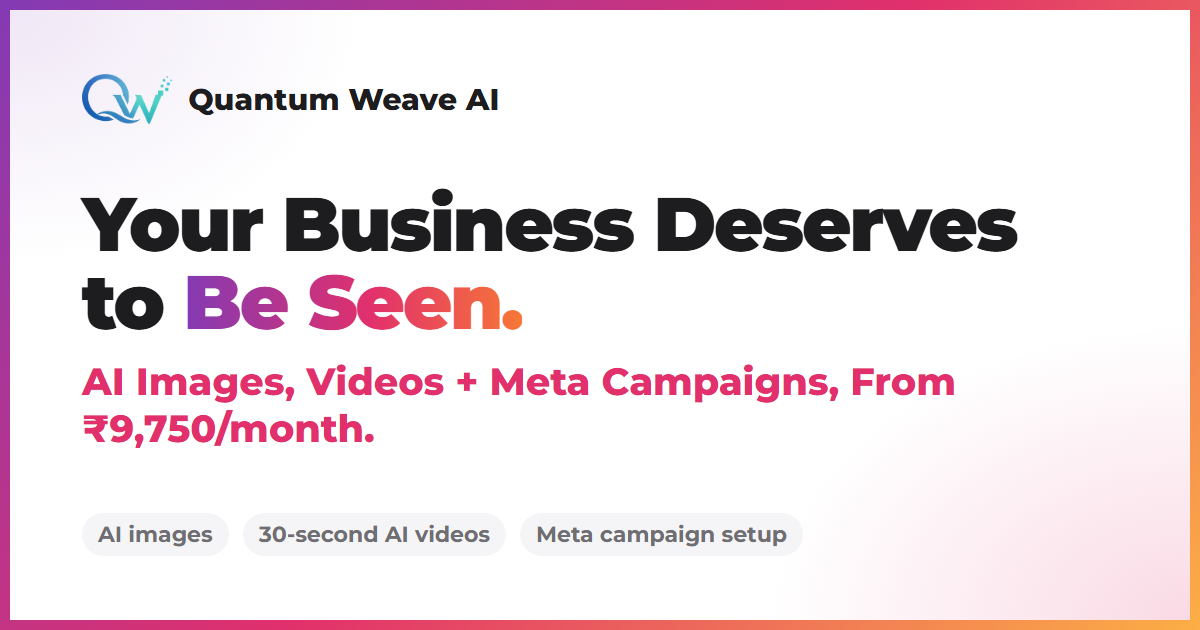
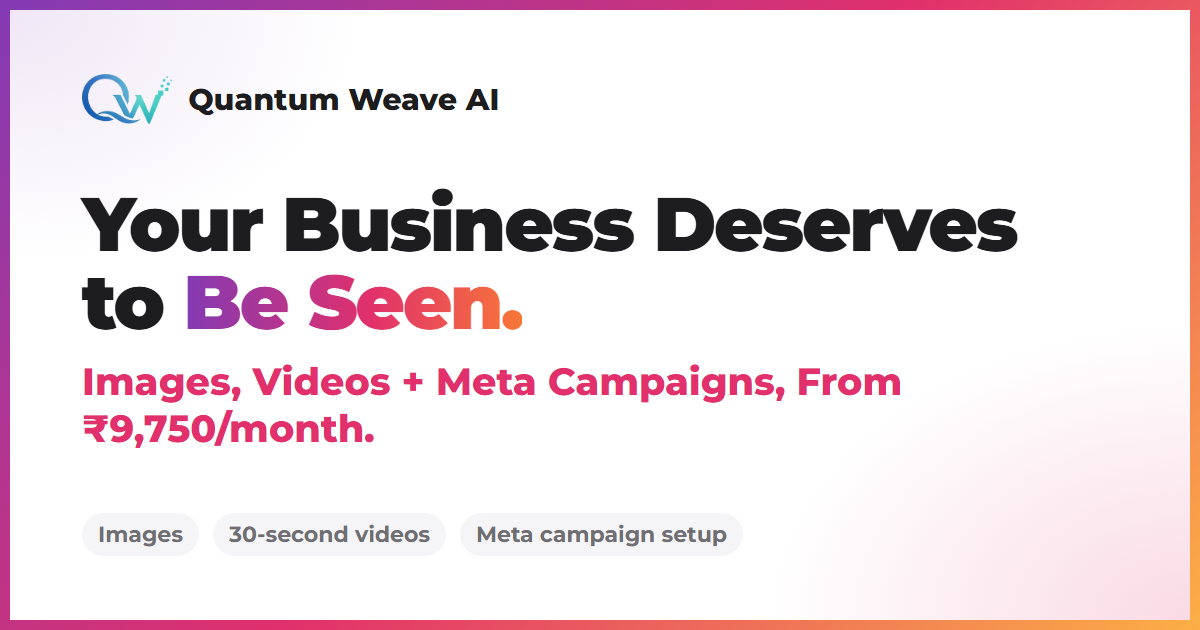
Meta Growth: show AI as a small bracket, not in the labels
"15 images (AI, 4:5)", "Videos (AI)" and so on: cards, comparison table,
full details, What You Get tiles and section leads. The hero line and share
image say "Images, Videos + Meta Campaigns". Sentences, the meta description
and structured data keep "AI" at normal size.

Changed region(s): [[0.0617, 0.573, 0.8017, 0.6333], [0.0617, 0.8143, 0.6783, 0.8746], [0.2775, 0.6635, 0.3083, 0.6937]]

diff --git a/public/meta-growth/index.html b/public/meta-growth/index.html
@@ -5,7 +5,7 @@
 <meta name="viewport" content="width=device-width, initial-scale=1.0">
 <title>AI-Powered Meta Ads for Businesses | Quantum Weave AI</title>
 <meta name="description" content="AI-generated images, 30-second AI videos and Facebook &amp; Instagram campaign setup. Packages from ₹9,750/month. Ad budget paid directly to Meta.">
-<meta property="og:title" content="AI Images, Videos + Meta Campaign Setup | Quantum Weave AI">
+<meta property="og:title" content="Images, Videos + Meta Campaign Setup | Quantum Weave AI">
 <meta property="og:description" content="AI-generated images and 30-second videos, with Facebook and Instagram campaign setup. Packages from ₹9,750/month.">
 <meta property="og:image" content="https://brandmintai.io/meta-growth/assets/brand/og-image.png">
 <meta property="og:image:width" content="1200">
@@ -307,6 +307,9 @@ Template metrics (3.5x reach, 12.4K followers, +285%) are not shown: they would 
   .feat .i{width:18px;height:18px;margin-top:1px;color:var(--wa);stroke-width:2.6}
   .incl{margin:16px 0 0;padding-top:12px;border-top:1px dashed var(--line);font-size:12.5px;line-height:1.5;color:var(--ink-2)}
   .incl b{color:var(--ink);font-weight:600}
+  /* "AI" is mentioned, but small and quiet, after the item */
+  .ai{font-size:.78em;font-style:normal;font-weight:500;color:var(--ink-2);letter-spacing:0;white-space:nowrap}
+  .incl .ai,.fine .ai{font-size:.92em}
   .outcome{margin:18px 0 0;padding:12px 14px;border-radius:12px;background:var(--soft);font-size:14px;font-weight:600;line-height:1.45;color:var(--ink)}
   .featured .outcome{background:#fff4f8}
   .budget b{display:block;margin-bottom:2px;font-size:11px;letter-spacing:.08em;text-transform:uppercase;color:var(--ink-2)}
@@ -569,7 +572,7 @@ Template metrics (3.5x reach, 12.4K followers, +285%) are not shown: they would 
           <div class="hero-copy">
             <span class="pill">AI-Powered Meta Ads</span>
             <h1 id="hero-title" class="h1">Your Business Deserves to <span class="grad">Be Seen.</span></h1>
-            <p class="sub">AI Images, Videos + Meta Campaigns, From ₹9,750/month.</p>
+            <p class="sub">Images, Videos + Meta Campaigns, From ₹9,750/month.</p>
             <p class="lead">AI-generated images and 30-second videos, with Facebook and Instagram campaigns set up for you.</p>
             <p class="handle">We create the ads. You focus on your business.</p>
           </div>
@@ -650,7 +653,7 @@ Template metrics (3.5x reach, 12.4K followers, +285%) are not shown: they would 
               <div class="deck">
                 <div class="post"><img src="/meta-growth/assets/feed/02-croissant.webp" alt="" loading="lazy" decoding="async"></div>
                 <div class="reelc"><img src="/meta-growth/assets/feed/08-reel-pour.webp" alt="" loading="lazy" decoding="async"><span class="bar"></span><span class="play"><span></span></span></div>
-                <div class="chipset"><span>AI images</span><span>AI videos</span><span>Revisions</span></div>
+                <div class="chipset"><span>Images</span><span>Videos</span><span>Revisions</span></div>
               </div>
             </div>
             <div class="vtxt"><span class="num n2">02</span><small>Step 2</small><h3>We Create Your Ads</h3><p>We make AI images (4:5) and 30-second AI videos. You review them, with revision rounds included.</p></div>
@@ -694,7 +697,7 @@ Template metrics (3.5x reach, 12.4K followers, +285%) are not shown: they would 
               <li><svg class="i"><use href="#i-check"/></svg>Promote your main offer with one focused campaign</li>
               <li><svg class="i"><use href="#i-check"/></svg>Look professional with fresh ads all month, no designer needed</li>
               </ul>
-              <p class="incl"><b>Every month:</b> 15 AI images (4:5) · 2 AI videos (30 sec) · 1 Meta ad campaign setup · 1 revision round</p>
+              <p class="incl"><b>Every month:</b> 15 images <em class="ai">(AI, 4:5)</em> · 2 videos <em class="ai">(AI, 30 sec)</em> · 1 Meta ad campaign setup · 1 revision round</p>
             </div>
             <p class="outcome budget"><b>Meta ad budget</b>₹15,000</p>
             <p class="plan-note"><svg class="i"><use href="#i-info"/></svg>You pay the ad budget directly to Meta, not to us. Meta may add taxes to ad spend.</p>
@@ -717,7 +720,7 @@ Template metrics (3.5x reach, 12.4K followers, +285%) are not shown: they would 
               <li><svg class="i"><use href="#i-check"/></svg>Compare more ads to see which bring in more enquiries</li>
               <li><svg class="i"><use href="#i-check"/></svg>Keep your ads fresh so people don't tune out</li>
               </ul>
-              <p class="incl"><b>Every month:</b> 25 AI images (4:5) · 4 AI videos (30 sec) · 2 Meta ad campaign setups · 2 revision rounds</p>
+              <p class="incl"><b>Every month:</b> 25 images <em class="ai">(AI, 4:5)</em> · 4 videos <em class="ai">(AI, 30 sec)</em> · 2 Meta ad campaign setups · 2 revision rounds</p>
             </div>
             <p class="outcome budget"><b>Meta ad budget</b>₹21,000</p>
             <p class="plan-note"><svg class="i"><use href="#i-info"/></svg>You pay the ad budget directly to Meta, not to us. Meta may add taxes to ad spend.</p>
@@ -739,7 +742,7 @@ Template metrics (3.5x reach, 12.4K followers, +285%) are not shown: they would 
               <li><svg class="i"><use href="#i-check"/></svg>Stay in front of more people with a bigger ad budget</li>
               <li><svg class="i"><use href="#i-check"/></svg>A large library of ads, so you can keep testing new ideas</li>
               </ul>
-              <p class="incl"><b>Every month:</b> 40 AI images (4:5) · 6 AI videos (30 sec) · 3 Meta ad campaign setups · 3 revision rounds</p>
+              <p class="incl"><b>Every month:</b> 40 images <em class="ai">(AI, 4:5)</em> · 6 videos <em class="ai">(AI, 30 sec)</em> · 3 Meta ad campaign setups · 3 revision rounds</p>
             </div>
             <p class="outcome budget"><b>Meta ad budget</b>₹30,000</p>
             <p class="plan-note"><svg class="i"><use href="#i-info"/></svg>You pay the ad budget directly to Meta, not to us. Meta may add taxes to ad spend.</p>
@@ -750,22 +753,22 @@ Template metrics (3.5x reach, 12.4K followers, +285%) are not shown: they would 
           <summary>Full package details</summary>
           <div class="fine-grid">
             <div><b>Starter</b><ul>
-              <li>15 AI-generated images (4:5, 1080 × 1350)</li>
-              <li>2 AI videos, 30 seconds each, vertical Reel style</li>
+              <li>15 images <em class="ai">(AI-generated, 4:5, 1080 × 1350)</em></li>
+              <li>2 videos <em class="ai">(AI-generated)</em>, 30 seconds each, vertical Reel style</li>
               <li>1 Meta ad campaign setup</li>
               <li>1 creative revision round</li>
               <li>Meta ad budget: ₹15,000</li>
             </ul></div>
             <div><b>Growth</b><ul>
-              <li>25 AI-generated images (4:5, 1080 × 1350)</li>
-              <li>4 AI videos, 30 seconds each, vertical Reel style</li>
+              <li>25 images <em class="ai">(AI-generated, 4:5, 1080 × 1350)</em></li>
+              <li>4 videos <em class="ai">(AI-generated)</em>, 30 seconds each, vertical Reel style</li>
               <li>2 Meta ad campaign setups</li>
               <li>2 creative revision rounds</li>
               <li>Meta ad budget: ₹21,000</li>
             </ul></div>
             <div><b>Premium</b><ul>
-              <li>40 AI-generated images (4:5, 1080 × 1350)</li>
-              <li>6 AI videos, 30 seconds each, vertical Reel style</li>
+              <li>40 images <em class="ai">(AI-generated, 4:5, 1080 × 1350)</em></li>
+              <li>6 videos <em class="ai">(AI-generated)</em>, 30 seconds each, vertical Reel style</li>
               <li>3 Meta ad campaign setups</li>
               <li>3 creative revision rounds</li>
               <li>Meta ad budget: ₹30,000</li>
@@ -788,11 +791,11 @@ Template metrics (3.5x reach, 12.4K followers, +285%) are not shown: they would 
         <div class="sec-head">
           <span class="pill">What You Get</span>
           <h2 id="get-title" class="h2">Everything Handled for You</h2>
-          <p class="lead">AI images, AI videos and Meta campaign setup, in one monthly package.</p>
+          <p class="lead">Images and videos <em class="ai">(AI)</em>, plus Meta campaign setup, in one monthly package.</p>
         </div>
         <ul class="get">
-          <li><span style="background:#e8efff;color:#2f6bff"><svg class="i"><use href="#i-image"/></svg></span><div>AI images<small>4:5, 1080 × 1350</small></div></li>
-          <li><span style="background:#fde7ef;color:#e1306c"><svg class="i"><use href="#i-play"/></svg></span><div>AI videos<small>30 seconds, vertical Reel style</small></div></li>
+          <li><span style="background:#e8efff;color:#2f6bff"><svg class="i"><use href="#i-image"/></svg></span><div>Images <em class="ai">(AI)</em><small>4:5, 1080 × 1350</small></div></li>
+          <li><span style="background:#fde7ef;color:#e1306c"><svg class="i"><use href="#i-play"/></svg></span><div>Videos <em class="ai">(AI)</em><small>30 seconds, vertical Reel style</small></div></li>
           <li><span style="background:#f1e8fb;color:#833ab4"><svg class="i"><use href="#i-target"/></svg></span><div>Meta campaign setup<small>1, 2 or 3 campaigns</small></div></li>
           <li><span style="background:#e7f6ef;color:#22a06b"><svg class="i"><use href="#i-trend"/></svg></span><div>Campaign targeting<small>Set up for every campaign in your package</small></div></li>
           <li><span style="background:#fff1e6;color:#f77737"><svg class="i"><use href="#i-doc"/></svg></span><div>Creative revisions<small>1, 2 or 3 rounds</small></div></li>
@@ -811,7 +814,7 @@ Template metrics (3.5x reach, 12.4K followers, +285%) are not shown: they would 
           <p class="lead">We help people discover your business online and make it easy for interested customers to start a WhatsApp conversation.</p>
         </div>
         <ol class="process">
-          <li><span class="n" style="background:#fde7ef;color:#e1306c">01</span><span class="ico" style="background:#fde7ef;color:#e1306c"><svg class="i"><use href="#i-image"/></svg></span><h3>Your AI images and videos</h3><p>Images and videos that show people what you offer.</p></li>
+          <li><span class="n" style="background:#fde7ef;color:#e1306c">01</span><span class="ico" style="background:#fde7ef;color:#e1306c"><svg class="i"><use href="#i-image"/></svg></span><h3>Your images and videos <em class="ai">(AI)</em></h3><p>Images and videos that show people what you offer.</p></li>
           <li><span class="n" style="background:#f1e8fb;color:#833ab4">02</span><span class="ico" style="background:#f1e8fb;color:#833ab4"><svg class="i"><use href="#i-target"/></svg></span><h3>A Meta campaign</h3><p>Your ads run on Facebook and Instagram for the people you want to reach.</p></li>
           <li><span class="n" style="background:#e7f6ef;color:#22a06b">03</span><span class="ico" style="background:#e7f6ef;color:#22a06b"><svg class="i"><use href="#i-chat"/></svg></span><h3>An enquiry</h3><p>Interested people get in touch with you.</p></li>
           <li><span class="n" style="background:#e8efff;color:#2f6bff">04</span><span class="ico" style="background:#e8efff;color:#2f6bff"><svg class="i"><use href="#i-users"/></svg></span><h3>You follow up</h3><p>You reply to your customers. Answering enquiries stays with you unless we agree otherwise.</p></li>
@@ -826,19 +829,19 @@ Template metrics (3.5x reach, 12.4K followers, +285%) are not shown: they would 
         <div class="sec-head">
           <span class="pill">Side by Side</span>
           <h2 id="compare-title" class="h2">Compare the Packages</h2>
-          <p class="lead">Every package includes AI images, 30-second AI videos and Meta campaign setup.</p>
+          <p class="lead">Every package includes images and 30-second videos <em class="ai">(AI)</em>, plus Meta campaign setup.</p>
         </div>
         <div class="compare" role="region" aria-labelledby="compare-title" tabindex="0">
           <table>
             <thead><tr><th scope="col">Feature</th><th scope="col">Starter</th><th scope="col">Growth</th><th scope="col">Premium</th></tr></thead>
             <tbody>
               <tr><th scope="row">Agency fee (incl. GST)</th><td>₹9,750</td><td>₹15,870</td><td>₹24,950</td></tr>
-              <tr><th scope="row">AI images (4:5)</th><td>15</td><td>25</td><td>40</td></tr>
-              <tr><th scope="row">AI videos</th><td>2</td><td>4</td><td>6</td></tr>
+              <tr><th scope="row">Images <em class="ai">(AI, 4:5)</em></th><td>15</td><td>25</td><td>40</td></tr>
+              <tr><th scope="row">Videos <em class="ai">(AI)</em></th><td>2</td><td>4</td><td>6</td></tr>
               <tr><th scope="row">Video length</th><td>30 sec</td><td>30 sec</td><td>30 sec</td></tr>
               <tr><th scope="row">Meta campaigns</th><td>1</td><td>2</td><td>3</td></tr>
               <tr><th scope="row">Revision rounds</th><td>1</td><td>2</td><td>3</td></tr>
-              <tr><th scope="row">Total AI creatives</th><td>17</td><td>29</td><td>46</td></tr>
+              <tr><th scope="row">Total creatives <em class="ai">(AI)</em></th><td>17</td><td>29</td><td>46</td></tr>
               <tr><th scope="row">Meta ad budget</th><td>₹15,000</td><td>₹21,000</td><td>₹30,000</td></tr>
             </tbody>
           </table>

diff --git a/marketing/meta-ads/src/og.html b/marketing/meta-ads/src/og.html
@@ -23,8 +23,8 @@
 <body>
 <div class="og">
   <div class="brand"><img src="qw-mark.png" alt="">Quantum Weave AI</div>
-  <div><h1>Your Business Deserves<br>to <span class="g">Be Seen.</span></h1><p class="sub">AI Images, Videos + Meta Campaigns, From ₹9,750/month.</p></div>
-  <div class="foot"><span>AI images</span><span>30-second AI videos</span><span>Meta campaign setup</span></div>
+  <div><h1>Your Business Deserves<br>to <span class="g">Be Seen.</span></h1><p class="sub">Images, Videos + Meta Campaigns, From ₹9,750/month.</p></div>
+  <div class="foot"><span>Images</span><span>30-second videos</span><span>Meta campaign setup</span></div>
 </div>
 </body>
 </html>
